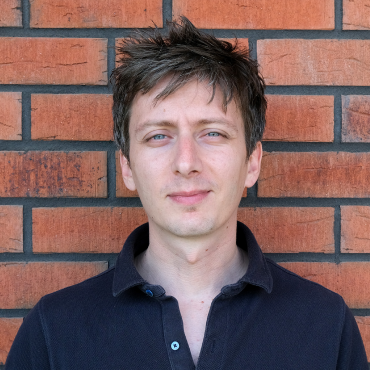
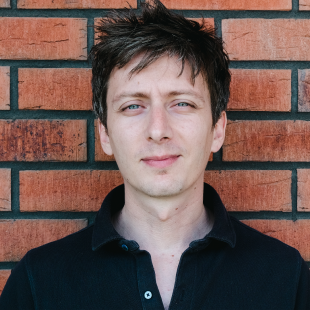
added members images, fixed a color bug

diff --git a/app/studio/ui/BlackWhite.js b/app/studio/ui/BlackWhite.js
@@ -17,8 +17,8 @@ export default function BlackWhite() {
         color: "var(--black)",
         scrollTrigger: {
           trigger: ".blackWhite",
-          start: "50% center",
-          end: "60% center",
+          start: "40% center",
+          end: "65% center",
           stagger: 1,
           scrub: true,
           duration: 1,
@@ -28,18 +28,19 @@ export default function BlackWhite() {
         color: "var(--black)",
         scrollTrigger: {
           trigger: ".blackWhite",
-          start: "45% center",
+          start: "40% center",
           end: "50% center",
           stagger: 1,
           scrub: true,
           duration: 1,
+          markers: true,
         },
       });
       gsap.to(".businessParagraph", {
         color: "var(--black)",
         scrollTrigger: {
           trigger: ".blackWhite",
-          start: "45% center",
+          start: "40% center",
           end: "50% center",
           stagger: 1,
           scrub: true,
@@ -51,7 +52,7 @@ export default function BlackWhite() {
         color: "var(--black)",
         scrollTrigger: {
           trigger: ".blackWhite",
-          start: "45% center",
+          start: "40% center",
           end: "50% center",
           stagger: 1,
           scrub: true,
@@ -63,7 +64,7 @@ export default function BlackWhite() {
         color: "var(--black)",
         scrollTrigger: {
           trigger: ".blackWhite",
-          start: "45% center",
+          start: "40% center",
           end: "50% center",
           stagger: 1,
           scrub: true,
@@ -75,7 +76,7 @@ export default function BlackWhite() {
         color: "var(--black)",
         scrollTrigger: {
           trigger: ".blackWhite",
-          start: "45% center",
+          start: "40% center",
           end: "50% center",
           stagger: 1,
           scrub: true,

diff --git a/app/studio/ui/MembersCards.js b/app/studio/ui/MembersCards.js
@@ -10,17 +10,17 @@ export default function MembersCards() {
   const employees = [
     {
       name: "Nikola Tomović",
-      img: "/images/vladimir.png",
+      img: "/images/dzoni.png",
       title: "CEO & Founder",
     },
     {
       name: "Vidan Dojčinović",
-      img: "/images/vladimir.png",
+      img: "/images/vidan.png",
       title: "Marketing Director",
     },
     {
       name: "Marko Živanović",
-      img: "/images/vladimir.png",
+      img: "/images/marko.png",
       title: "Art Director",
     },
     {
@@ -30,28 +30,33 @@ export default function MembersCards() {
     },
     {
       name: "Ilija Vidaković",
-      img: "/images/vladimir.png",
+      img: "/images/ilija.png",
       title: "Graphic & Motion Designer",
     },
     {
       name: "Nina Đukić",
-      img: "/images/vladimir.png",
+      img: "/images/nina.png",
       title: "Senior Content Writer",
     },
     {
       name: "Vladan Marković",
-      img: "/images/vladimir.png",
+      img: "/images/vladan.png",
       title: "Lead Frontend Developer",
     },
     {
       name: "Đulian Bogdan",
-      img: "/images/vladimir.png",
+      img: "/images/julian.png",
       title: "Frontend Developer",
     },
     {
       name: "Natalija Jevtić",
-      img: "/images/vladimir.png",
+      img: "/images/natalija.png",
       title: "PR Little",
+    },
+    {
+      name: "Mlađana Crnković",
+      img: "/images/maya.png",
+      title: "Boss/Artist",
     },
   ];
 
@@ -119,7 +124,7 @@ export default function MembersCards() {
           <button
             onClick={() => {
               handlePrevSlide();
-              setCurrent(current === 1 ? 9 : current - 1);
+              setCurrent(current === 1 ? 10 : current - 1);
             }}
             className="splide__arrow splide__arrow--prev"
           >

diff --git a/app/studio/ui/styles/Video.module.css b/app/studio/ui/styles/Video.module.css
@@ -22,7 +22,7 @@
 .bottom {
   width: 100%;
   height: 300px;
-  background: linear-gradient(var(--black), var(--black) 00);
+  background: linear-gradient(var(--black), var(--transparent));
   z-index: 10;
 }
 
@@ -38,7 +38,7 @@
 }
 
 .bottom {
-  background: linear-gradient(var(--black) 00, var(--black));
+  background: linear-gradient(var(--transparent), var(--black));
 }
 
 @media (max-width: 425px) {

diff --git a/app/studio/ui/styles/BlackWhite.module.css b/app/studio/ui/styles/BlackWhite.module.css
@@ -4,7 +4,7 @@
   align-items: center;
   background: var(--black);
   color: var(--black);
-  height: 115vh;
+  height: 120vh;
   justify-content: center;
 }
 .buildingsConclusion {

diff --git a/styles/globals.css b/styles/globals.css
@@ -17,6 +17,7 @@
 :root {
   --white: #fff;
   --black: #202020;
+  --transparent: #00000000;
 }
 
 html,
